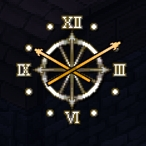
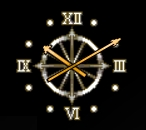
ちくしょう、設定必要じゃねぇか！ + アニメーション調整

diff --git a/Elin.Plugin.Main/Models/Impl/WidgetDateImpl.cs b/Elin.Plugin.Main/Models/Impl/WidgetDateImpl.cs
@@ -1,4 +1,5 @@
 using Elin.Plugin.Generated;
+using Elin.Plugin.Main.Models.Settings;
 using Elin.Plugin.Main.PluginHelpers;
 using UnityEngine.UI;
 
@@ -6,15 +7,54 @@ namespace Elin.Plugin.Main.Models.Impl
 {
     public static class WidgetDateImpl
     {
+        #region define
+
+        // 補間時間（秒）。小さくすると速く追従する
+        private const float SmoothTime = 0.05f;
+
+        #endregion
+
         #region property
 
         private static Image? ImageMinutes { get; set; }
+        private static Vector2? SourceScale { get; set; }
+
+        // 角度補間用状態
+        private static float CurrentHourAngle { get; set; }
+        private static float CurrentMinuteAngle { get; set; }
+        private static float hourVelocity;
+        private static float minuteVelocity;
+
+        #endregion
+
+        #region function
+
+        // 常に current 以下（時計回り）
+        private static float CalculateClockwiseTargetAngle(float currentUnwrappedAngle, float targetWrappedAngle)
+        {
+            var delta = Mathf.Repeat(currentUnwrappedAngle - targetWrappedAngle, 360f); // 0..360
+            return currentUnwrappedAngle - delta;
+        }
 
         #endregion
 
         #region WidgetDate
 
-        public static void OnActivatePostfix(WidgetDate instance)
+        public static void OnActivatePrefix(WidgetDate instance)
+        {
+            ImageMinutes = null;
+            if (SourceScale != null)
+            {
+                var rt = instance.imageHour.rectTransform;
+                rt.sizeDelta = SourceScale.Value;
+            }
+            else
+            {
+                SourceScale = instance.imageHour.rectTransform.sizeDelta;
+            }
+        }
+
+        public static void OnActivatePostfix(WidgetDate instance, GameDate date)
         {
             var imageHour = instance.imageHour;
 
@@ -30,9 +70,7 @@ namespace Elin.Plugin.Main.Models.Impl
                 return;
             }
 
-            // 時針に対する分針
-            // TODO: お尻が伸びるのだっせぇなぁ、原点に合わせて後ろ縮める楽な方法がぱっと思いつかない
-            var scale = (x: 1.3f, y: 0.6f);
+            var minuteScale = (x: 1.3f, y: 0.8f);
 
             // 何でもかんでもコピーしとけば安心の精神
             var srcRt = imageHour.rectTransform;
@@ -40,11 +78,11 @@ namespace Elin.Plugin.Main.Models.Impl
             dstRt.anchorMin = srcRt.anchorMin;
             dstRt.anchorMax = srcRt.anchorMax;
             dstRt.anchoredPosition = srcRt.anchoredPosition;
-            dstRt.sizeDelta = new Vector2(srcRt.sizeDelta.x * scale.x, srcRt.sizeDelta.y * scale.y);
+            dstRt.sizeDelta = new Vector2(srcRt.sizeDelta.x * minuteScale.x, srcRt.sizeDelta.y * minuteScale.y);
             dstRt.pivot = srcRt.pivot;
             dstRt.localRotation = srcRt.localRotation;
             dstRt.localScale = srcRt.localScale;
-            // 全部コピーしとけの心
+
             clonedImage.color = imageHour.color;
             clonedImage.material = imageHour.material;
             clonedImage.raycastTarget = imageHour.raycastTarget;
@@ -52,14 +90,28 @@ namespace Elin.Plugin.Main.Models.Impl
             clonedImage.preserveAspect = imageHour.preserveAspect;
             clonedImage.sprite = imageHour.sprite;
 
-            // 前へ
             clonedGameObject.transform.SetSiblingIndex(imageHour.transform.GetSiblingIndex() + 1);
             clonedGameObject.SetActive(true);
 
             ImageMinutes = clonedImage;
+
+            // 初期化：現在角度をその場の角度に合わせる（急なジャンプを防ぐ）
+            var minuteAngle = -date.min * 6f + 90f;
+            var hour12 = date.hour % 12;
+            var hourWithMinute = hour12 + date.min / 60f;
+            var hourAngle = -hourWithMinute * 30f + 90f;
+
+            CurrentMinuteAngle = minuteAngle;
+            CurrentHourAngle = hourAngle;
+            hourVelocity = 0f;
+            minuteVelocity = 0f;
+
+            // やけくそで時針を太らす
+            var hourScale = (x: 0.8f, y: 1.2f);
+            srcRt.sizeDelta = new Vector2(SourceScale!.Value.x * hourScale.x, SourceScale!.Value.y * hourScale.y);
         }
 
-        public static void _RefreshPostfix(WidgetDate instance, Game game, GameDate date)
+        public static void _RefreshPostfix(WidgetDate instance, Game game, GameDate date, Setting setting)
         {
             // [ELIN:WidgetDate._Refresh]
             // -> if (EMono.game.activeZone == null)
@@ -75,18 +127,33 @@ namespace Elin.Plugin.Main.Models.Impl
 
             if (ImageMinutes == null)
             {
-                // OnActivate の時点で _Refresh が呼び出されるが、
-                // OnActivate は Postfix で実装しているので ImageMinutes はまだ作られていない可能性あり。
-                // 次回更新は 0.1 秒後なので待っとけばいい。
-                // もともと OnActivate は Prefix で実装していたが、リソースコピー処理するので Postfix に変更した。
-                // Unity の仕組み知らんから分からんけど DI コンテナ的なもので依存性注入されてそうだから問題ないと思うけどさ。
                 return;
             }
 
-            var minute = date.min;
-            var angle = -minute * 6f + 90f;
+            // 目標角度(設定に関係なく時針も計算する)
+            var minuteTarget = -date.min * 6f + 90f;
+            var hourTarget = -((date.hour % 12) + date.min / 60f) * 30f + 90f;
 
-            ImageMinutes.rectTransform.localEulerAngles = new Vector3(0f, 0f, angle);
+            if (setting.IsAnimationEnabled)
+            {
+                var minuteTargetUnwrapped = CalculateClockwiseTargetAngle(CurrentMinuteAngle, minuteTarget);
+                var hourTargetUnwrapped = CalculateClockwiseTargetAngle(CurrentHourAngle, hourTarget);
+
+                // SmoothDampAngle は最短経路を取るため使わない
+                CurrentMinuteAngle = Mathf.SmoothDamp(CurrentMinuteAngle, minuteTargetUnwrapped, ref minuteVelocity, SmoothTime, Mathf.Infinity, Time.deltaTime);
+                CurrentHourAngle = Mathf.SmoothDamp(CurrentHourAngle, hourTargetUnwrapped, ref hourVelocity, SmoothTime, Mathf.Infinity, Time.deltaTime);
+            }
+            else
+            {
+                CurrentMinuteAngle = minuteTarget;
+                CurrentHourAngle = hourTarget;
+            }
+
+            ImageMinutes.rectTransform.localEulerAngles = new Vector3(0f, 0f, Mathf.Repeat(CurrentMinuteAngle, 360f));
+            if (setting.IsHourHandFollowingMinutes)
+            {
+                instance.imageHour.transform.localEulerAngles = new Vector3(0f, 0f, Mathf.Repeat(CurrentHourAngle, 360f));
+            }
         }
 
         #endregion

diff --git a/Elin.Plugin.Main/Models/Patches/WidgetDatePatch.cs b/Elin.Plugin.Main/Models/Patches/WidgetDatePatch.cs
@@ -1,4 +1,5 @@
 using Elin.Plugin.Main.Models.Impl;
+using Elin.Plugin.Main.Models.Settings;
 using HarmonyLib;
 
 namespace Elin.Plugin.Main.Models.Patches
@@ -9,17 +10,24 @@ namespace Elin.Plugin.Main.Models.Patches
         #region function
 
         [HarmonyPatch(nameof(WidgetDate.OnActivate))]
+        [HarmonyPrefix]
+        public static void OnActivatePrefix(WidgetDate __instance)
+        {
+            WidgetDateImpl.OnActivatePrefix(__instance);
+        }
+
+        [HarmonyPatch(nameof(WidgetDate.OnActivate))]
         [HarmonyPostfix]
         public static void OnActivatePostfix(WidgetDate __instance)
         {
-            WidgetDateImpl.OnActivatePostfix(__instance);
+            WidgetDateImpl.OnActivatePostfix(__instance, EMono.world.date);
         }
 
         [HarmonyPatch(nameof(WidgetDate._Refresh))]
         [HarmonyPostfix]
         public static void _RefreshPostfix(WidgetDate __instance)
         {
-            WidgetDateImpl._RefreshPostfix(__instance, EMono.game, EMono.world.date);
+            WidgetDateImpl._RefreshPostfix(__instance, EMono.game, EMono.world.date, Setting.Instance);
         }
 
         #endregion

diff --git a/Elin.Plugin.Main/Models/Settings/Setting.cs b/Elin.Plugin.Main/Models/Settings/Setting.cs
@@ -1,0 +1,24 @@
+using Elin.Plugin.Generated;
+
+namespace Elin.Plugin.Main.Models.Settings
+{
+    [GeneratePluginConfig]
+    public partial class Setting
+    {
+        #region property
+
+        internal static Setting Instance { get; set; } = new Setting();
+
+        /// <summary>
+        /// アニメーションを有効にするか。
+        /// </summary>
+        public virtual bool IsAnimationEnabled { get; set; } = true;
+
+        /// <summary>
+        /// 時針の角度を分に合わせて変化させるか。
+        /// </summary>
+        public virtual bool IsHourHandFollowingMinutes { get; set; } = true;
+
+        #endregion
+    }
+}

diff --git a/Elin.Plugin.Main/Plugin.cs b/Elin.Plugin.Main/Plugin.cs
@@ -1,3 +1,4 @@
+using Elin.Plugin.Main.Models.Settings;
 using HarmonyLib;
 
 // Mod 用テンプレート組み込み想定
@@ -14,7 +15,8 @@ namespace Elin.Plugin.Main
         /// <param name="harmony"></param>
         private void AwakePlugin(Harmony harmony)
         {
-            //NOP
+            var defaultSetting = new Setting();
+            Setting.Instance = Setting.Bind(Config, defaultSetting);
         }
 
         /// <summary>
